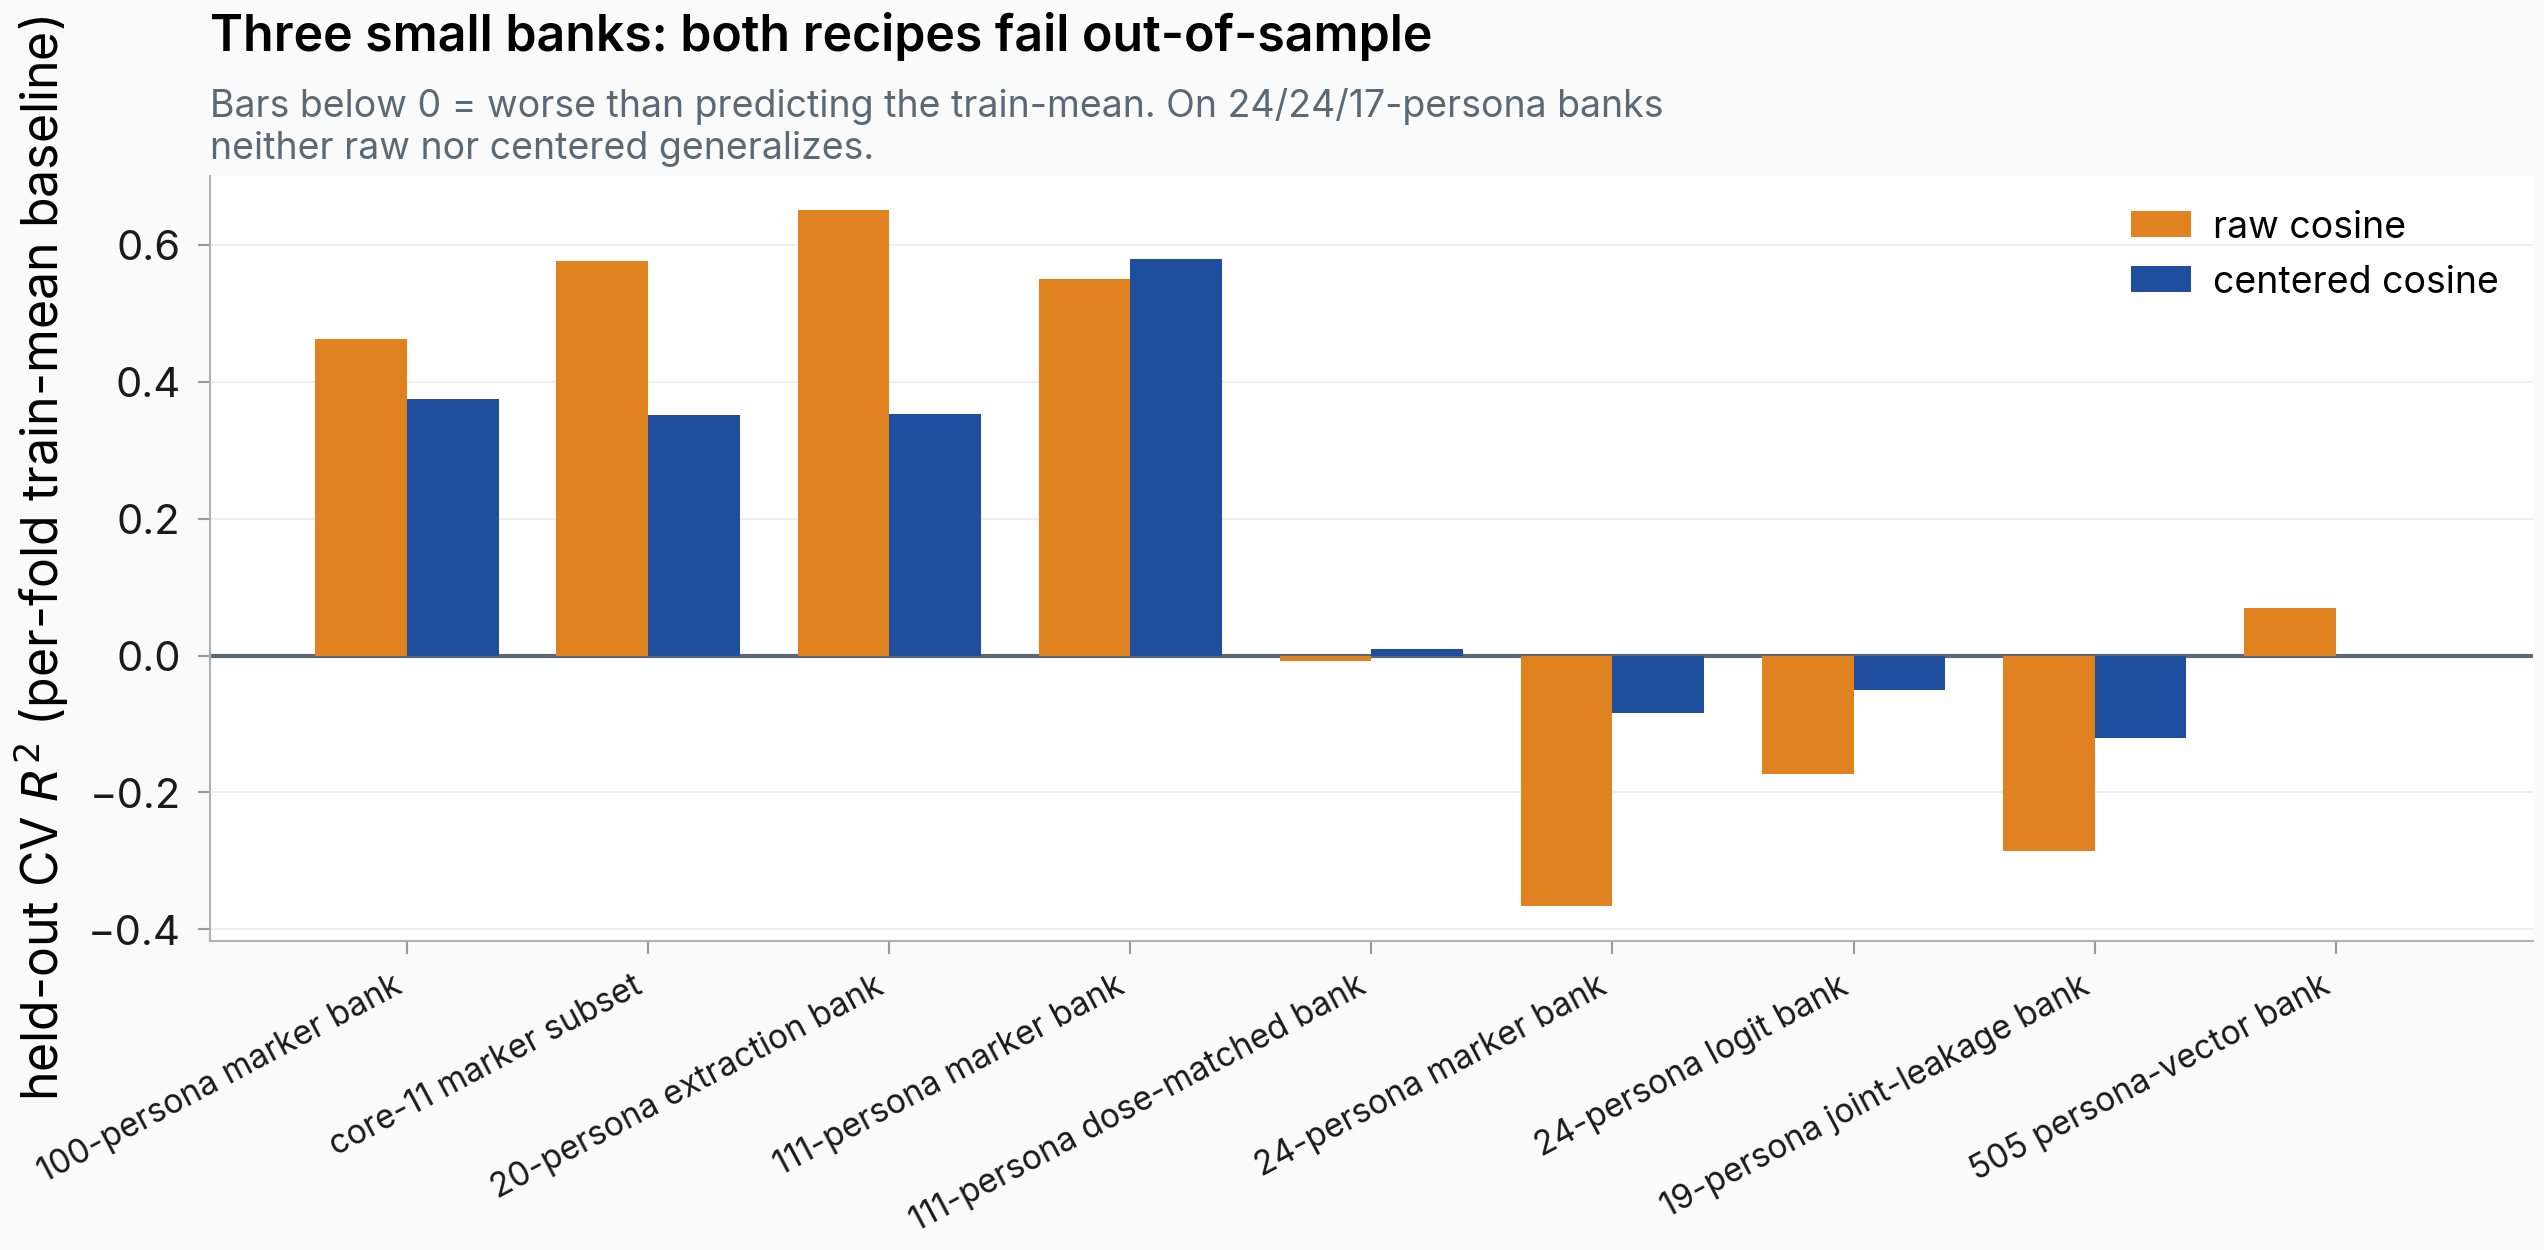
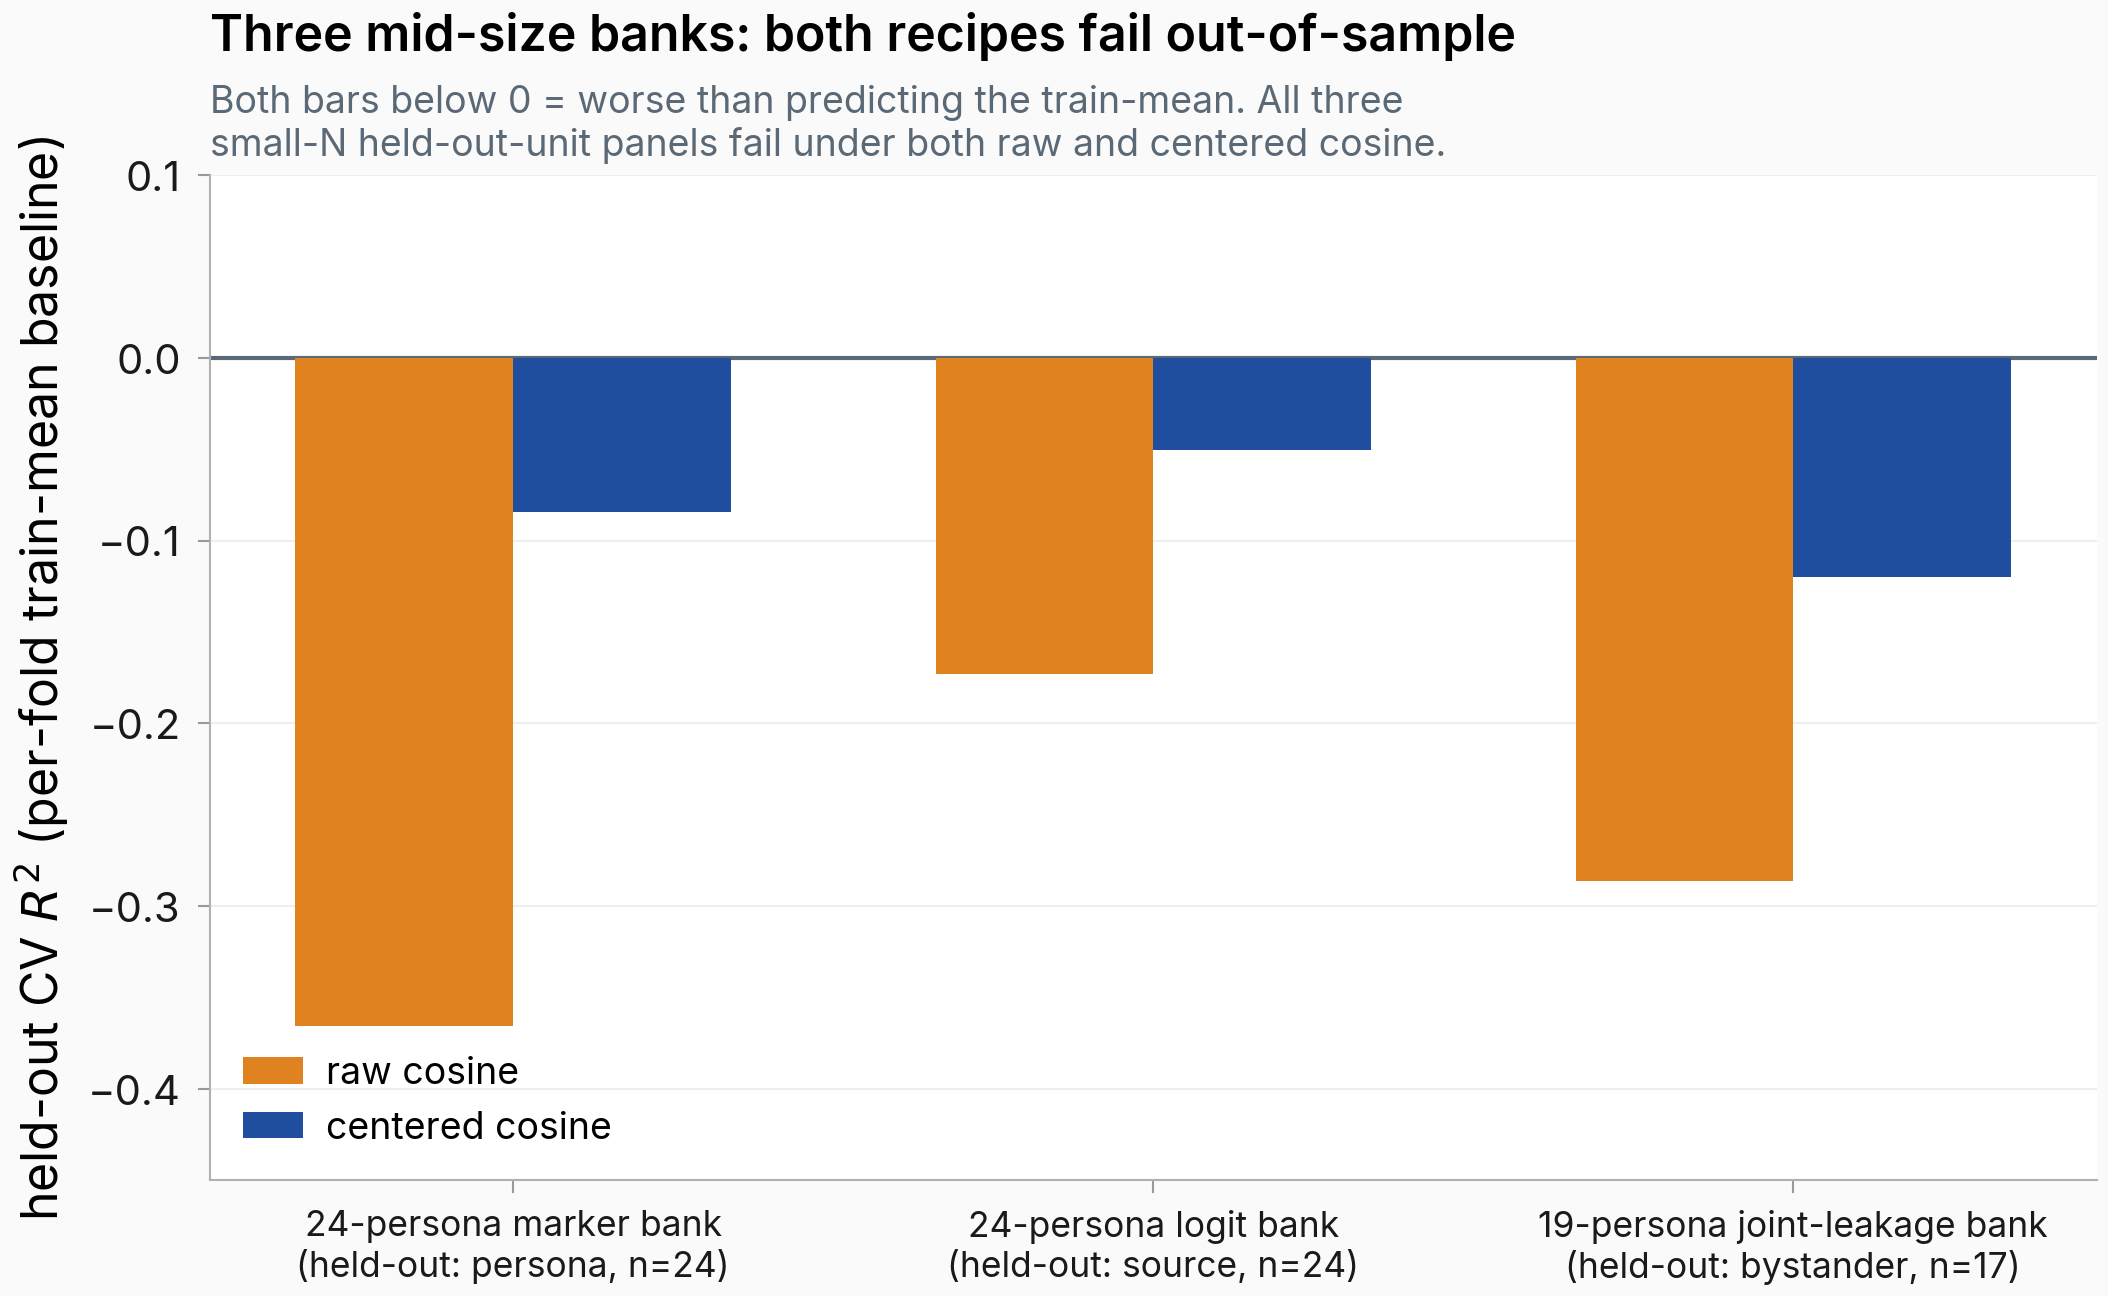
figures: issue #648 restrict paired-R2 chart to the 3 both-fail banks (round-2 MF2)

diff --git a/scripts/issue648_analyzer_figures.py b/scripts/issue648_analyzer_figures.py
@@ -194,37 +194,50 @@ def insample_vs_cv(rows: list[dict]) -> None:
 
 
 def paired_r2_bars(rows: list[dict]) -> None:
-    """Absolute R²_raw and R²_centered per bank — makes the three both-negative
-    (both predictors fail out-of-sample) banks visible as a finding."""
+    """Absolute R²_raw and R²_centered for the three both-negative (both predictors
+    fail out-of-sample) mid-size held-out-unit banks ONLY — restricted to the three
+    so the chart matches its title (the other 6 banks live in the hero forest)."""
     set_paper_style("blog")
     raw_c = paper_palette_role("baseline")
     cen_c = paper_palette_role("primary")
     neutral = paper_palette_role("neutral")
-    order = rows
-    labels = [SHORT[r["bank_id"]] for r in order]
+    # Restrict to the three banks excluded for both-recipes-fail-OOS.
+    fail_rows = [r for r in rows if r.get("exclusion_reason") == "both_predictors_fail_oos"]
+    assert len(fail_rows) == 3, f"expected 3 both-fail banks, got {len(fail_rows)}"
+    order = fail_rows
+    # Label each with its held-out unit so the CV-unit difference is visible.
+    unit_short = {
+        "leave-one-persona-out": "held-out: persona",
+        "leave-one-source-out": "held-out: source",
+        "leave-one-bystander-out": "held-out: bystander",
+    }
+    labels = [
+        f"{SHORT[r['bank_id']]}\n({unit_short[r['cv_unit']]}, n={r['n_groups']})" for r in order
+    ]
     r2raw = [r["cv_r2_raw"] for r in order]
     r2cen = [r["cv_r2_centered"] for r in order]
     x = np.arange(len(order))
-    w = 0.38
+    w = 0.34
 
-    fig, ax = plt.subplots(figsize=(8.8, 5.0), constrained_layout=False)
+    fig, ax = plt.subplots(figsize=(7.4, 5.0), constrained_layout=False)
     ax.axhline(0.0, color=neutral, lw=1.0, zorder=1)
     ax.bar(x - w / 2, r2raw, w, label="raw cosine", color=raw_c, zorder=2)
     ax.bar(x + w / 2, r2cen, w, label="centered cosine", color=cen_c, zorder=2)
     ax.set_xticks(x)
-    ax.set_xticklabels(labels, rotation=28, ha="right", fontsize=8)
+    ax.set_xticklabels(labels, fontsize=8.5)
     ax.set_ylabel("held-out CV $R^2$ (per-fold train-mean baseline)")
-    ax.legend(loc="upper right", fontsize=9)
+    ax.set_ylim(-0.45, 0.10)
+    ax.legend(loc="lower left", fontsize=9)
     ax.set_title(
-        "Three small banks: both recipes fail out-of-sample",
+        "Three mid-size banks: both recipes fail out-of-sample",
         loc="left",
         fontsize=12.0,
         fontweight="semibold",
         pad=30,
     )
     ax.annotate(
-        "Bars below 0 = worse than predicting the train-mean. On 24/24/17-persona banks\n"
-        "neither raw nor centered generalizes.",
+        "Both bars below 0 = worse than predicting the train-mean. All three\n"
+        "small-N held-out-unit panels fail under both raw and centered cosine.",
         xy=(0.0, 1.012),
         xycoords="axes fraction",
         fontsize=9,
@@ -232,7 +245,7 @@ def paired_r2_bars(rows: list[dict]) -> None:
         ha="left",
         va="bottom",
     )
-    fig.subplots_adjust(left=0.09, bottom=0.32, right=0.97, top=0.83)
+    fig.subplots_adjust(left=0.12, bottom=0.16, right=0.97, top=0.83)
     savefig_paper(fig, "issue_648/paired_r2_raw_vs_centered", dir="figures/")
     plt.close(fig)
 
